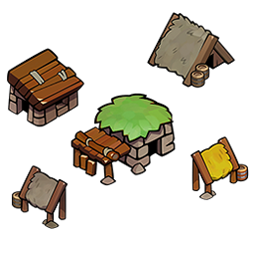
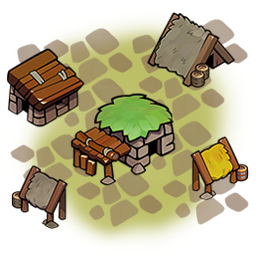
Image Css Sprites changes

diff --git a/src/store/actions.js b/src/store/actions.js
@@ -1,7 +1,8 @@
-import dop, { connect, action, collect } from 'dop'
+import { connect, action, collect } from 'dop'
 import state from 'store/state'
 import { VIEWS } from 'const/views'
 import { VIEWS_PLAYING } from 'const/views'
+import { localStorageSet } from 'utils/browser'
 
 const Server = {}
 
@@ -128,56 +129,65 @@ export async function updateTileUnits({ game_id, tile_id }) {
     collector.emit()
 }
 
-let interval
-window.dop = dop
-window.state = state
-window.Server = Server
-window.stopbot = () => clearInterval(interval)
-window.bot = async function bot() {
-    const { shuffle, randomInt } = require('runandrisk-common/utils')
-    const { distance } = require('runandrisk-common/board')
-
-    interval = setInterval(async function() {
-        if (state.view === VIEWS.PLAYING) {
-            const game = state.game
-            const game_id = game.id
-
-            if (game.recruiting) {
-                for (let i = 0; i < 100; i++) {
-                    Server.sendClicksRecruiting({ game_id })
-                }
-            }
-
-            const player_index = state.games[game_id]
-            const board = game.board
-            const tiles = shuffle(Object.keys(board))
-            for (let i = 0; i < tiles.length; i += 1) {
-                const tile_id_from = tiles[i]
-                const tile1 = board[tile_id_from]
-                if (tile1.owner.hasOwnProperty(player_index)) {
-                    for (let i = 0; i < tiles.length; i += 1) {
-                        const tile_id_to = tiles[i]
-                        const tile2 = board[tile_id_to]
-                        if (distance({ tile1, tile2 }) === 1) {
-                            const units = randomInt(
-                                1,
-                                Math.round(tile1.owner[player_index].units / 2)
-                            )
-                            try {
-                                await Server.sendUnits({
-                                    game_id,
-                                    tile_id_from,
-                                    tile_id_to,
-                                    units
-                                })
-                            } catch (e) {}
-                            break
-                        }
-                    }
-                    break
-                }
-            }
-        }
-    }, 1000)
+export function changeNickname(nickname) {
+    state.nickname = nickname
+    localStorageSet('nickname', nickname)
 }
+
+//
+// DEV
+//
+// const dop = require('dop')
+// let interval
+// window.dop = dop
+// window.state = state
+// window.Server = Server
+// window.stopbot = () => clearInterval(interval)
+// window.bot = async function bot() {
+//     const { shuffle, randomInt } = require('runandrisk-common/utils')
+//     const { distance } = require('runandrisk-common/board')
+
+//     interval = setInterval(async function() {
+//         if (state.view === VIEWS.PLAYING) {
+//             const game = state.game
+//             const game_id = game.id
+
+//             if (game.recruiting) {
+//                 for (let i = 0; i < 100; i++) {
+//                     Server.sendClicksRecruiting({ game_id })
+//                 }
+//             }
+
+//             const player_index = state.games[game_id]
+//             const board = game.board
+//             const tiles = shuffle(Object.keys(board))
+//             for (let i = 0; i < tiles.length; i += 1) {
+//                 const tile_id_from = tiles[i]
+//                 const tile1 = board[tile_id_from]
+//                 if (tile1.owner.hasOwnProperty(player_index)) {
+//                     for (let i = 0; i < tiles.length; i += 1) {
+//                         const tile_id_to = tiles[i]
+//                         const tile2 = board[tile_id_to]
+//                         if (distance({ tile1, tile2 }) === 1) {
+//                             const units = randomInt(
+//                                 1,
+//                                 Math.round(tile1.owner[player_index].units / 2)
+//                             )
+//                             try {
+//                                 await Server.sendUnits({
+//                                     game_id,
+//                                     tile_id_from,
+//                                     tile_id_to,
+//                                     units
+//                                 })
+//                             } catch (e) {}
+//                             break
+//                         }
+//                     }
+//                     break
+//                 }
+//             }
+//         }
+//     }, 1000)
+// }
 // window.bot()

diff --git a/src/components/views/ChooseNickName.js b/src/components/views/ChooseNickName.js
@@ -1,7 +1,7 @@
 import React, { useEffect, useRef } from 'react'
 import styled from '@emotion/styled'
 import { useGlobalState, useObserver } from 'dop-react'
-import { connectToServer } from 'store/actions'
+import { connectToServer, changeNickname } from 'store/actions'
 // Components
 import Window, { WindowContent, WindowButtons } from 'components/styled/Window'
 import { ButtonGreen } from 'components/styled/Button'
@@ -25,7 +25,7 @@ export default function ChooseNickName() {
                         ref={inputEl}
                         width="100%"
                         value={state.nickname}
-                        onChange={e => (state.nickname = e.target.value)}
+                        onChange={e => changeNickname(e.target.value)}
                     />
                 </Div>
             </WindowContent>

diff --git a/public/index.html b/public/index.html
@@ -13,14 +13,15 @@
         <link href="assets/css/fonts.css" rel="stylesheet" />
         <link href="assets/css/main.css" rel="stylesheet" type="text/css" />
         <link href="assets/css/map.css" rel="stylesheet" type="text/css" />
+        <link rel="icon" href="assets/img/favicon.png" />
 
-        <title>React App</title>
+        <title>Run And Risk</title>
     </head>
     <body ontouchstart="">
         <noscript>You need to enable JavaScript to run this app.</noscript>
         <div id="root"></div>
     </body>
-
+    <!-- 
     <script>
         window.onload = () => {
             javascript: (function() {
@@ -37,5 +38,5 @@
                 document.head.appendChild(script)
             })()
         }
-    </script>
+    </script> -->
 </html>

diff --git a/src/store/state.js b/src/store/state.js
@@ -1,5 +1,6 @@
 import { register } from 'dop'
 import { VIEWS, VIEWS_PLAYING } from 'const/views'
+import { localStorageGet } from 'utils/browser'
 
 const state = register({
     get view() {
@@ -7,7 +8,7 @@ const state = register({
     },
     view_playing: VIEWS_PLAYING.NORMAL,
     // temp: ,
-    nickname: '',
+    nickname: localStorageGet('nickname') || '',
     games: {
         // "Game_L6wLS50M8apDdnRN": "SF"
     },

diff --git a/src/utils/browser.js b/src/utils/browser.js
@@ -1,0 +1,11 @@
+export function localStorageSet(key, value) {
+    return window.localStorage.setItem(key, value)
+}
+
+export function localStorageGet(key) {
+    return window.localStorage.getItem(key)
+}
+
+export function localStorageRemove(key) {
+    return window.localStorage.removeItem(key)
+}

diff --git a/src/components/styled/Background.js b/src/components/styled/Background.js
@@ -1,7 +1,7 @@
 import styled from '@emotion/styled'
 
 const Background = styled.div`
-    background: url('/assets/img/background.png') 50% 50%;
+    background: url('/assets/img/background.jpg') 50% 50%;
     width: 100%;
     height: 100%;
 `
